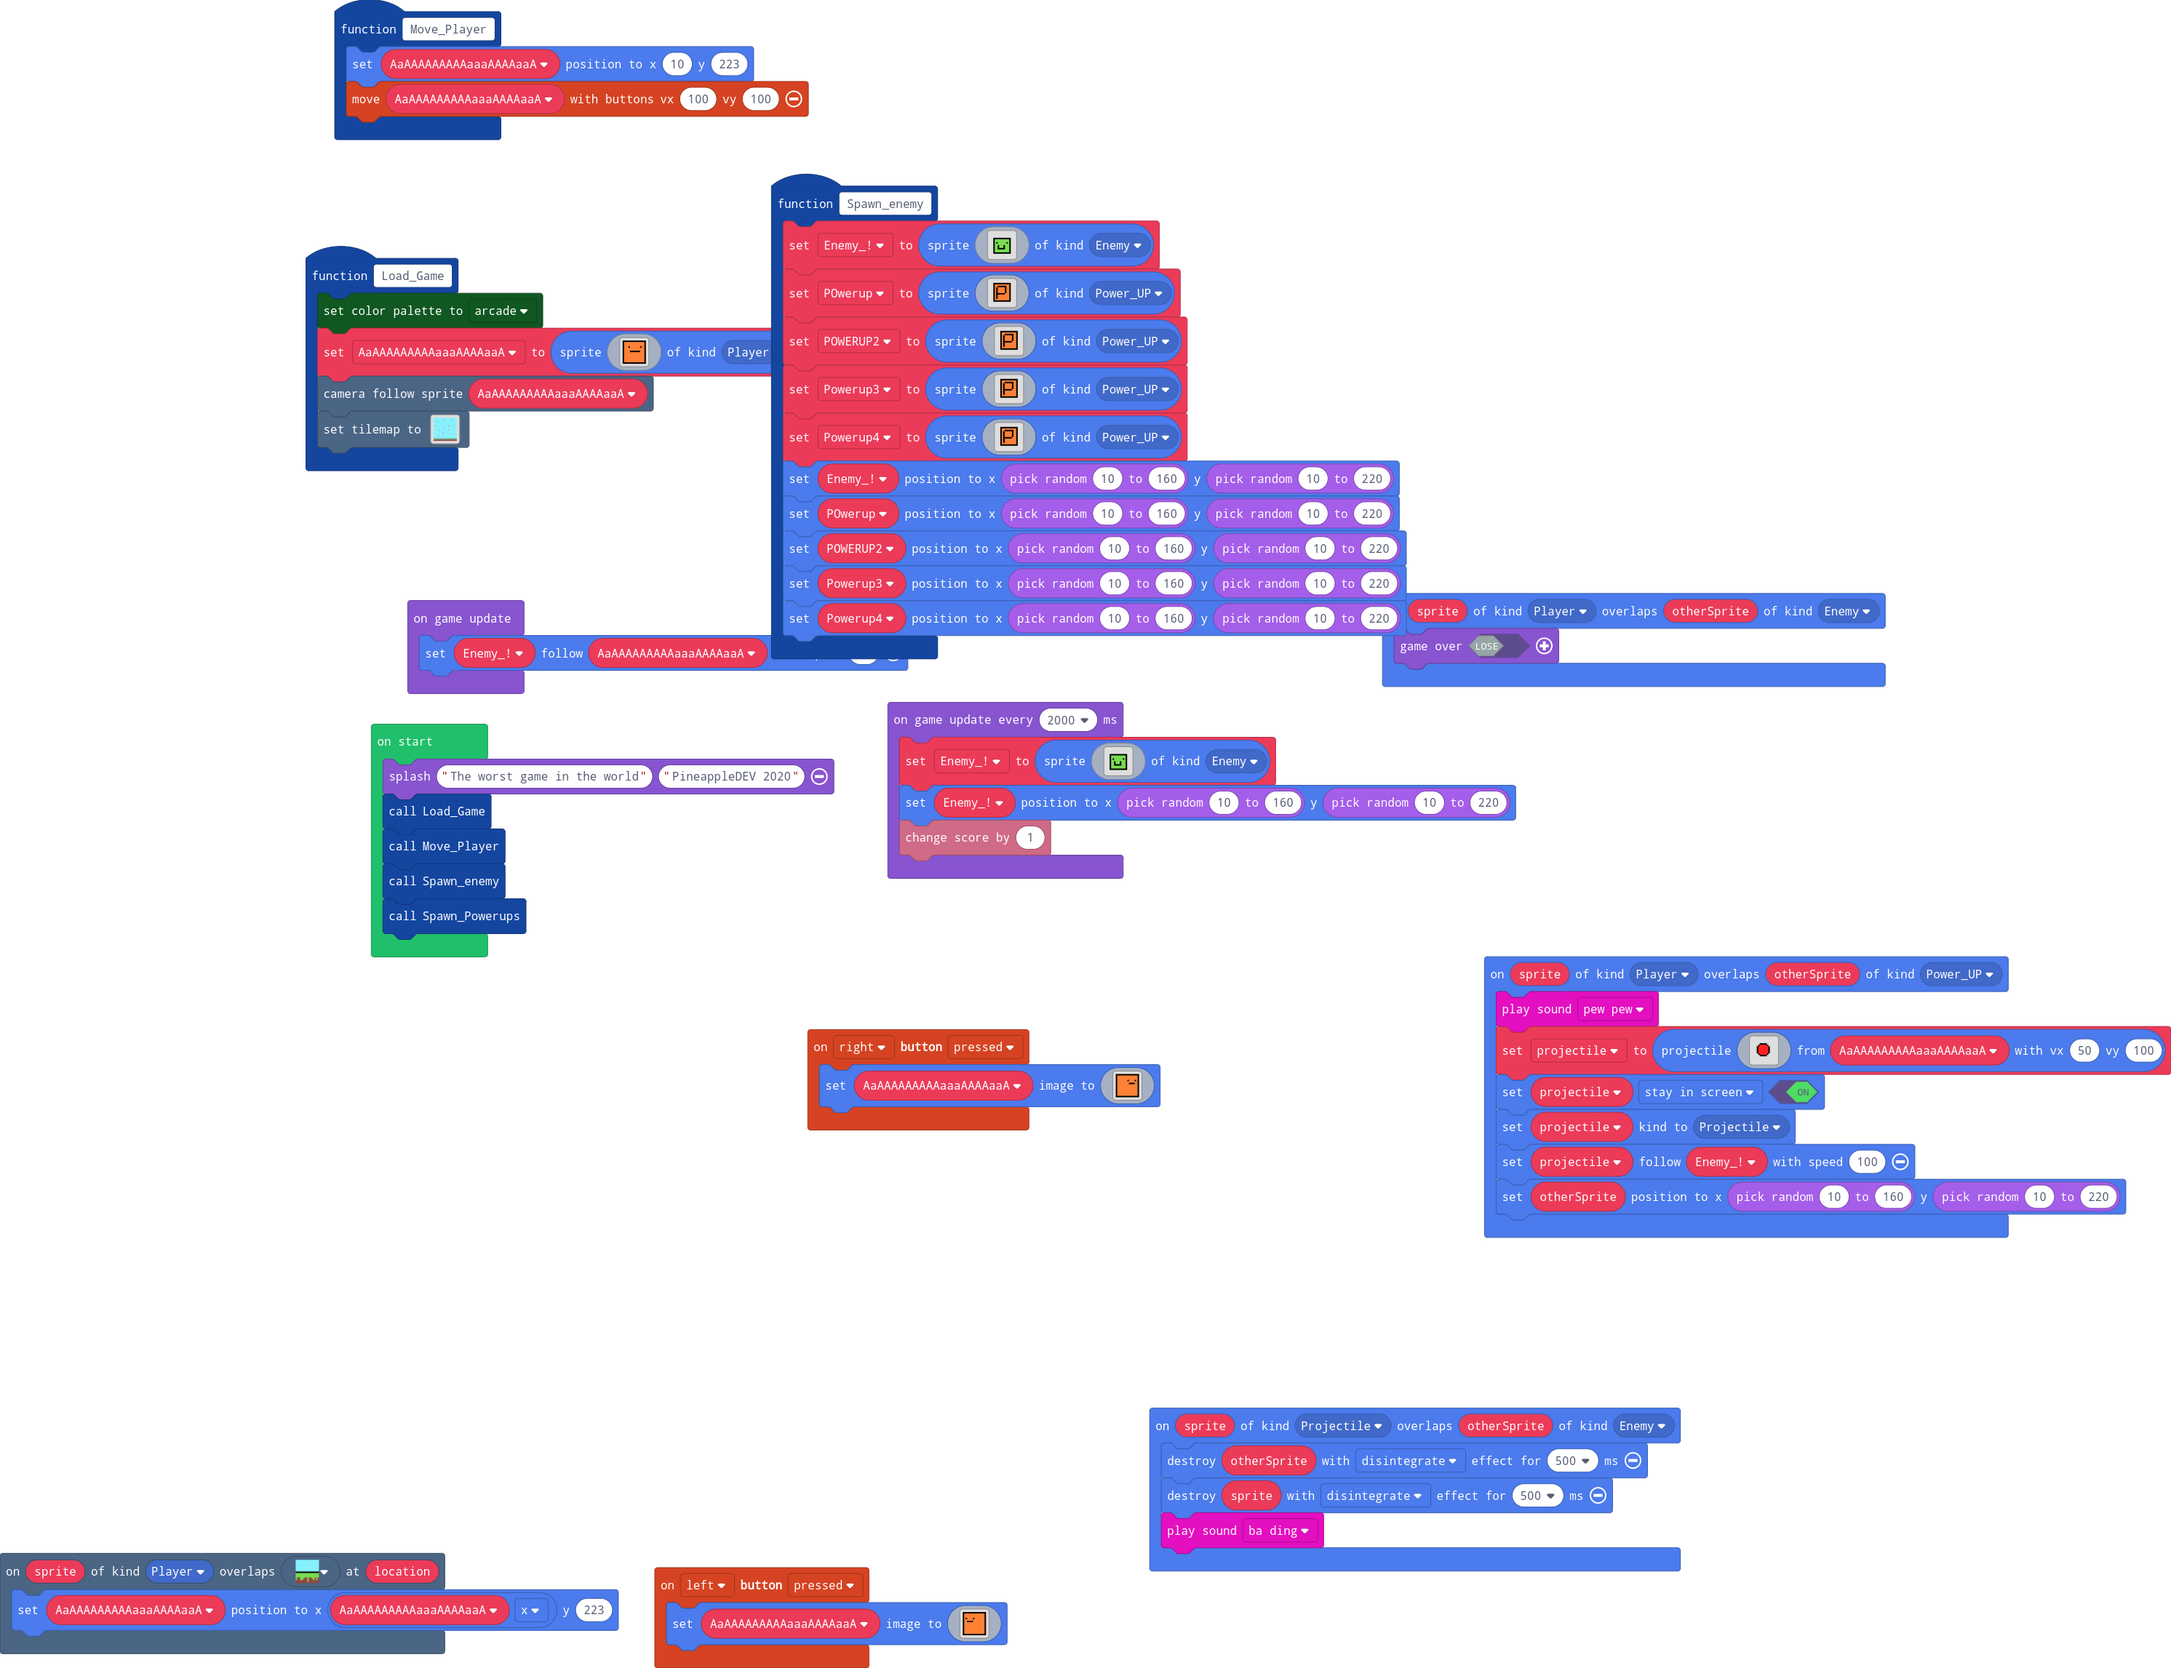
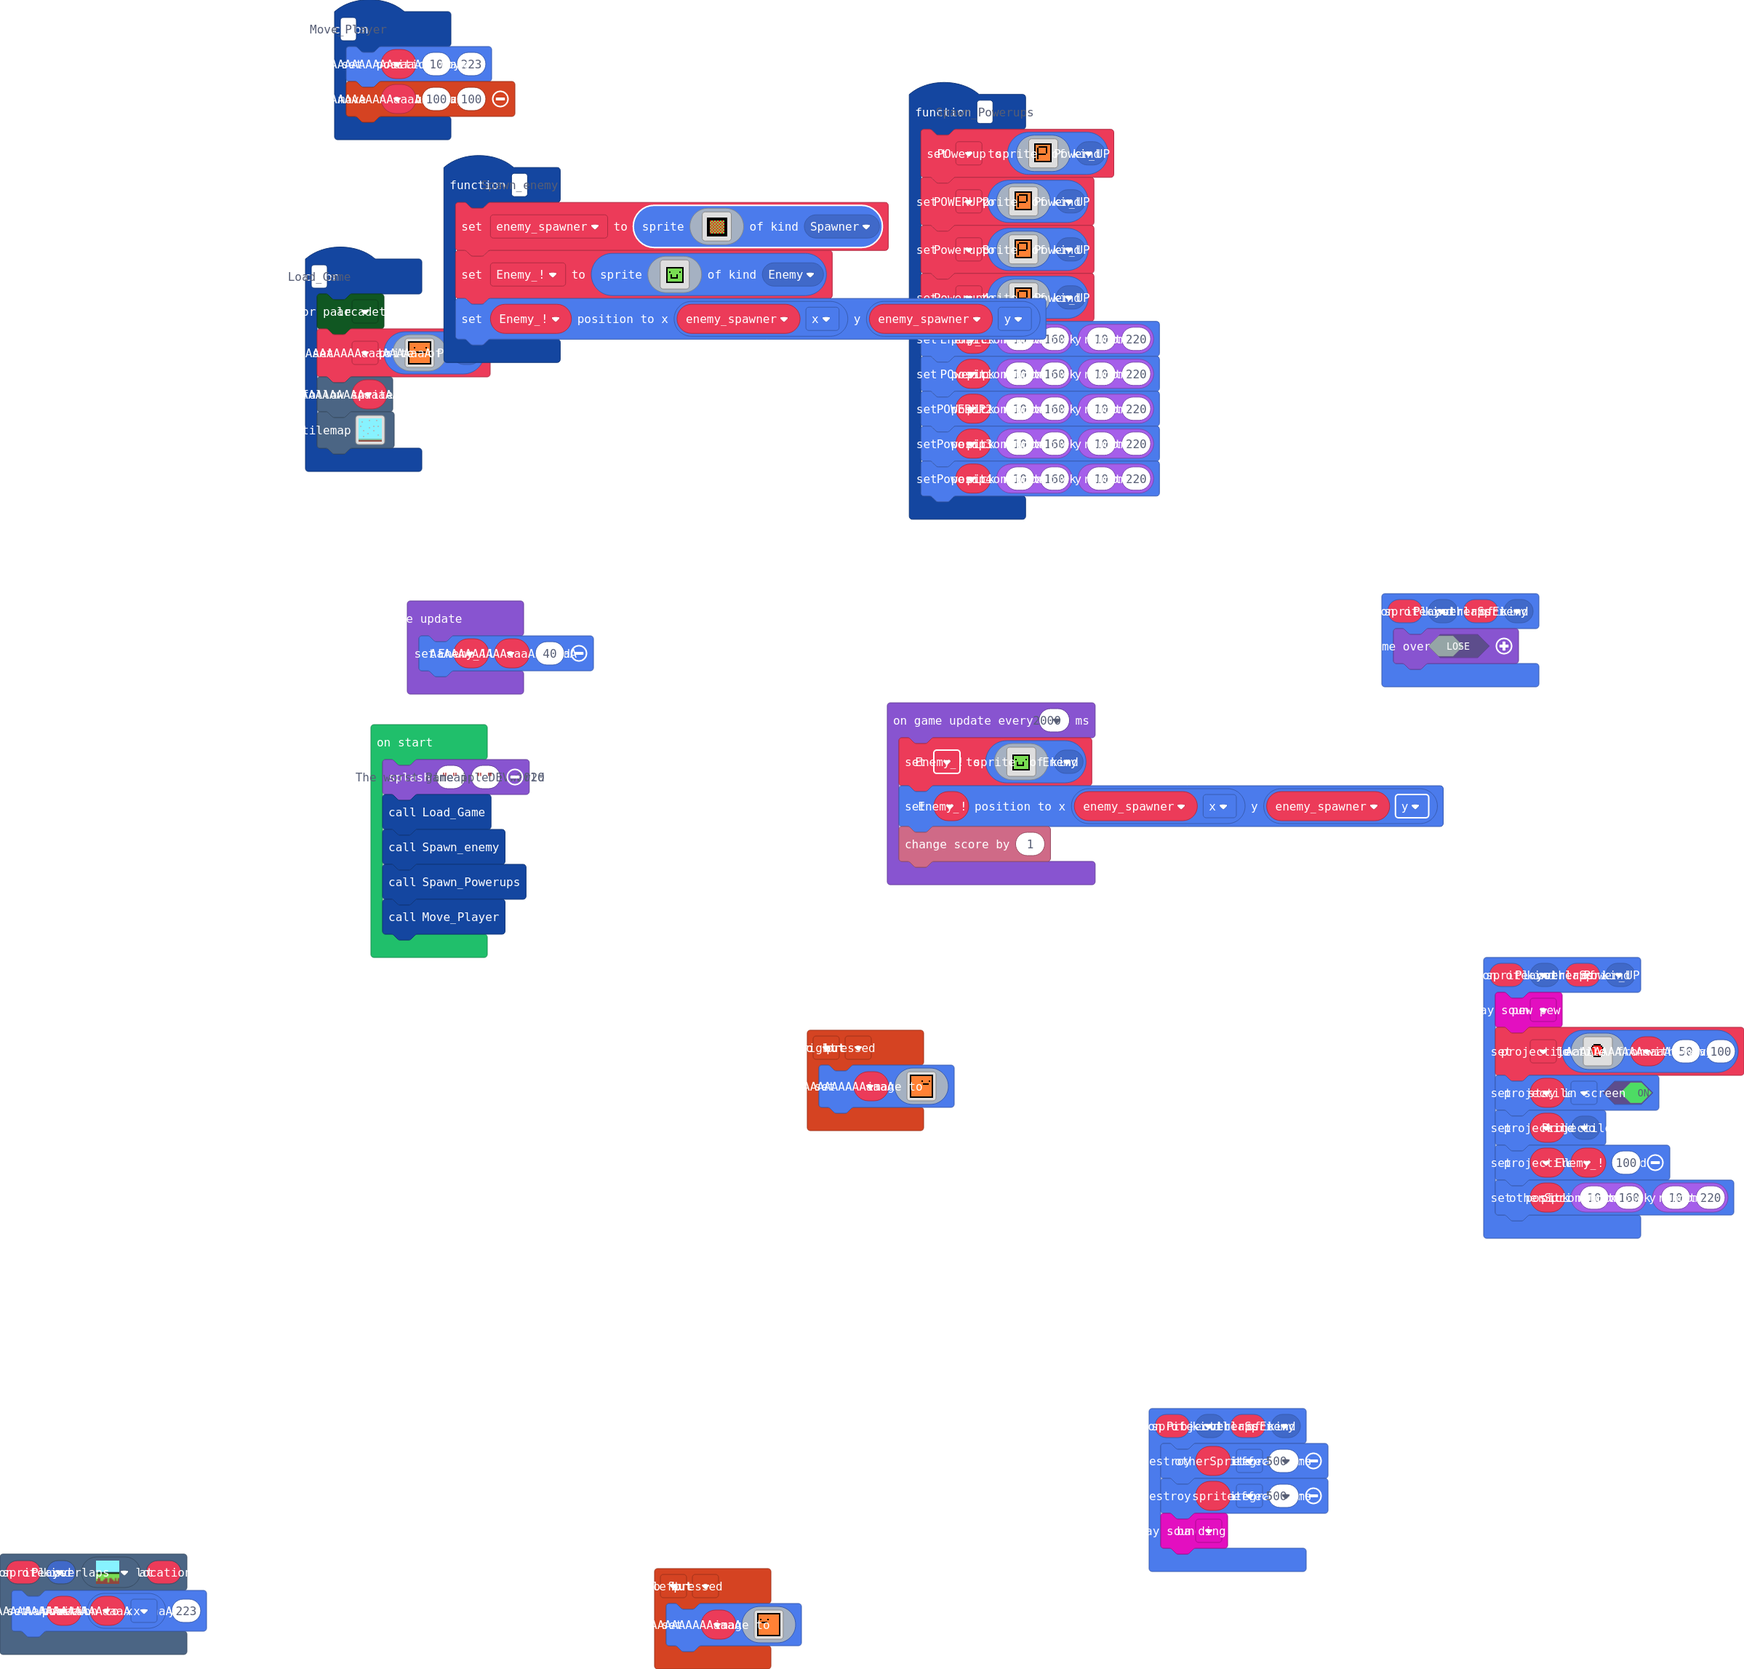
New! Enemy spawner (stasionary enemy spawner)

diff --git a/main.ts b/main.ts
@@ -1,5 +1,6 @@
 namespace SpriteKind {
     export const Power_UP = SpriteKind.create()
+    export const Spawner = SpriteKind.create()
 }
 namespace myTiles {
     //% blockIdentity=images._tile
@@ -98,11 +99,49 @@ f f d d d d d d d d d d d d f f
 9 9 9 9 9 9 9 9 9 9 9 9 9 9 9 9 
 `
 }
+controller.left.onEvent(ControllerButtonEvent.Pressed, function () {
+    AaAAAAAAAAAaaaAAAAaaA.setImage(img`
+f f f f f f f f f f f f f f f f 
+f 4 4 4 4 4 4 4 4 4 4 4 4 4 4 f 
+f 4 4 4 4 4 4 4 4 4 4 4 4 4 4 f 
+f 4 4 4 4 4 4 4 4 4 4 4 4 4 4 f 
+f 4 f 4 4 4 4 f 4 4 4 4 4 4 4 f 
+f 4 4 4 4 4 4 4 4 4 4 4 4 4 4 f 
+f 4 4 f f f f 4 4 4 4 4 4 4 4 f 
+f 4 4 4 4 4 4 4 4 4 4 4 4 4 4 f 
+f 4 4 4 4 4 4 4 4 4 4 4 4 4 4 f 
+f 4 4 4 4 4 4 4 4 4 4 4 4 4 4 f 
+f 4 4 4 4 4 4 4 4 4 4 4 4 4 4 f 
+f 4 4 4 4 4 4 4 4 4 4 4 4 4 4 f 
+f 4 4 4 4 4 4 4 4 4 4 4 4 4 4 f 
+f 4 4 4 4 4 4 4 4 4 4 4 4 4 4 f 
+f 4 4 4 4 4 4 4 4 4 4 4 4 4 4 f 
+f f f f f f f f f f f f f f f f 
+`)
+})
 function Move_Player () {
     AaAAAAAAAAAaaaAAAAaaA.setPosition(10, 223)
     controller.moveSprite(AaAAAAAAAAAaaaAAAAaaA, 100, 100)
 }
 function Spawn_enemy () {
+    enemy_spawner = sprites.create(img`
+. . . . . . . . . . . . . . . . 
+. . . . . . . . . . . . . . . . 
+. f f f f f f f f f f f f f f . 
+. f f f f f f f f f f f f f f . 
+. f f 2 7 2 7 2 7 2 7 2 7 f f . 
+. f f 7 2 7 2 7 2 7 2 7 2 f f . 
+. f f 2 7 2 7 2 7 2 7 2 7 f f . 
+. f f 7 2 7 2 7 2 7 2 7 2 f f . 
+. f f 2 7 2 7 2 7 2 7 2 7 f f . 
+. f f 7 2 7 2 7 2 7 2 7 2 f f . 
+. f f 2 7 2 7 2 7 2 7 2 7 f f . 
+. f f 7 2 7 2 7 2 7 2 7 2 f f . 
+. f f 2 7 2 7 2 7 2 7 2 7 f f . 
+. f f f f f f f f f f f f f f . 
+. f f f f f f f f f f f f f f . 
+. . . . . . . . . . . . . . . . 
+`, SpriteKind.Spawner)
     Enemy_ = sprites.create(img`
 . . . . . . . . . . . . . . . . 
 . . . . . . . . . . . . . . . . 
@@ -121,6 +160,112 @@ function Spawn_enemy () {
 . . . . . . . . . . . . . . . . 
 . . . . . . . . . . . . . . . . 
 `, SpriteKind.Enemy)
+    Enemy_.setPosition(enemy_spawner.x, enemy_spawner.y)
+}
+sprites.onOverlap(SpriteKind.Projectile, SpriteKind.Enemy, function (sprite, otherSprite) {
+    otherSprite.destroy(effects.disintegrate, 500)
+    sprite.destroy(effects.disintegrate, 500)
+    music.baDing.play()
+})
+sprites.onOverlap(SpriteKind.Player, SpriteKind.Enemy, function (sprite, otherSprite) {
+    game.over(false)
+})
+controller.right.onEvent(ControllerButtonEvent.Pressed, function () {
+    AaAAAAAAAAAaaaAAAAaaA.setImage(img`
+f f f f f f f f f f f f f f f f 
+f 4 4 4 4 4 4 4 4 4 4 4 4 4 4 f 
+f 4 4 4 4 4 4 4 4 4 4 4 4 4 4 f 
+f 4 4 4 4 4 4 4 4 4 4 4 4 4 4 f 
+f 4 4 4 4 4 4 4 f 4 4 4 4 f 4 f 
+f 4 4 4 4 4 4 4 4 4 4 4 4 4 4 f 
+f 4 4 4 4 4 4 4 4 f f f f 4 4 f 
+f 4 4 4 4 4 4 4 4 4 4 4 4 4 4 f 
+f 4 4 4 4 4 4 4 4 4 4 4 4 4 4 f 
+f 4 4 4 4 4 4 4 4 4 4 4 4 4 4 f 
+f 4 4 4 4 4 4 4 4 4 4 4 4 4 4 f 
+f 4 4 4 4 4 4 4 4 4 4 4 4 4 4 f 
+f 4 4 4 4 4 4 4 4 4 4 4 4 4 4 f 
+f 4 4 4 4 4 4 4 4 4 4 4 4 4 4 f 
+f 4 4 4 4 4 4 4 4 4 4 4 4 4 4 f 
+f f f f f f f f f f f f f f f f 
+`)
+})
+sprites.onOverlap(SpriteKind.Player, SpriteKind.Power_UP, function (sprite, otherSprite) {
+    music.pewPew.play()
+    projectile = sprites.createProjectileFromSprite(img`
+. . . . . . . . . . . . . . . . 
+. . . . . . . . . . . . . . . . 
+. . . . . . . . . . . . . . . . 
+. . . . . f f f f f . . . . . . 
+. . . . f 2 2 2 2 2 f . . . . . 
+. . . f 2 2 2 2 2 2 2 f . . . . 
+. . . f 2 2 2 2 2 2 2 f . . . . 
+. . . f 2 2 2 2 2 2 2 f . . . . 
+. . . f 2 2 2 2 2 2 2 f . . . . 
+. . . f 2 2 2 2 2 2 2 f . . . . 
+. . . . f 2 2 2 2 2 f . . . . . 
+. . . . . f f f f f . . . . . . 
+. . . . . . . . . . . . . . . . 
+. . . . . . . . . . . . . . . . 
+. . . . . . . . . . . . . . . . 
+. . . . . . . . . . . . . . . . 
+`, AaAAAAAAAAAaaaAAAAaaA, 50, 100)
+    projectile.setFlag(SpriteFlag.StayInScreen, true)
+    projectile.setKind(SpriteKind.Projectile)
+    projectile.follow(Enemy_, 100)
+    otherSprite.setPosition(Math.randomRange(10, 160), Math.randomRange(10, 220))
+})
+function Load_Game () {
+    color.setPalette(
+    color.Arcade
+    )
+    AaAAAAAAAAAaaaAAAAaaA = sprites.create(img`
+f f f f f f f f f f f f f f f f 
+f 4 4 4 4 4 4 4 4 4 4 4 4 4 4 f 
+f 4 4 4 4 4 4 4 4 4 4 4 4 4 4 f 
+f 4 4 4 4 4 4 4 4 4 4 4 4 4 4 f 
+f 4 4 4 f 4 4 4 4 4 4 4 f 4 4 f 
+f 4 4 4 4 4 4 4 4 4 4 4 4 4 4 f 
+f 4 4 4 4 4 4 4 4 4 4 4 4 4 4 f 
+f 4 4 4 4 f f f f f f f 4 4 4 f 
+f 4 4 4 4 4 4 4 4 4 4 4 4 4 4 f 
+f 4 4 4 4 4 4 4 4 4 4 4 4 4 4 f 
+f 4 4 4 4 4 4 4 4 4 4 4 4 4 4 f 
+f 4 4 4 4 4 4 4 4 4 4 4 4 4 4 f 
+f 4 4 4 4 4 4 4 4 4 4 4 4 4 4 f 
+f 4 4 4 4 4 4 4 4 4 4 4 4 4 4 f 
+f 4 4 4 4 4 4 4 4 4 4 4 4 4 4 f 
+f f f f f f f f f f f f f f f f 
+`, SpriteKind.Player)
+    scene.cameraFollowSprite(AaAAAAAAAAAaaaAAAAaaA)
+    tiles.setTilemap(tiles.createTilemap(
+            hex`1000100001010101010101010101010101010101010101010101010401010101040101010101040101010101010101010101010101010101010101010101010101010101010101010101010101010101010101010104010101010101010104010104010101010101010101040101010101010101010101010101010101010101010101010101010401010101010104010101010101010101010101010101010101010101010101010101040101010101010101010101010101010101010101010104010101010104010101010101010101010101010101010101010101010101010101010202020202020202020202020202020203030303030303030303030303030303`,
+            img`
+. . . . . . . . . . . . . . . . 
+. . . . . . . . . . . . . . . . 
+. . . . . . . . . . . . . . . . 
+. . . . . . . . . . . . . . . . 
+. . . . . . . . . . . . . . . . 
+. . . . . . . . . . . . . . . . 
+. . . . . . . . . . . . . . . . 
+. . . . . . . . . . . . . . . . 
+. . . . . . . . . . . . . . . . 
+. . . . . . . . . . . . . . . . 
+. . . . . . . . . . . . . . . . 
+. . . . . . . . . . . . . . . . 
+. . . . . . . . . . . . . . . . 
+. . . . . . . . . . . . . . . . 
+. . . . . . . . . . . . . . . . 
+. . . . . . . . . . . . . . . . 
+`,
+            [myTiles.tile0,myTiles.tile1,myTiles.tile2,myTiles.tile3,myTiles.tile4],
+            TileScale.Sixteen
+        ))
+}
+scene.onOverlapTile(SpriteKind.Player, myTiles.tile2, function (sprite, location) {
+    AaAAAAAAAAAaaaAAAAaaA.setPosition(AaAAAAAAAAAaaaAAAAaaA.x, 223)
+})
+function Spawn_Powerups () {
     POwerup = sprites.create(img`
 . . . . . . . . . . . . . . . . 
 . . f f f f f f f f f f f f . . 
@@ -199,144 +344,19 @@ function Spawn_enemy () {
     Powerup3.setPosition(Math.randomRange(10, 160), Math.randomRange(10, 220))
     Powerup4.setPosition(Math.randomRange(10, 160), Math.randomRange(10, 220))
 }
-function Load_Game () {
-    color.setPalette(
-    color.Arcade
-    )
-    AaAAAAAAAAAaaaAAAAaaA = sprites.create(img`
-f f f f f f f f f f f f f f f f 
-f 4 4 4 4 4 4 4 4 4 4 4 4 4 4 f 
-f 4 4 4 4 4 4 4 4 4 4 4 4 4 4 f 
-f 4 4 4 4 4 4 4 4 4 4 4 4 4 4 f 
-f 4 4 4 f 4 4 4 4 4 4 4 f 4 4 f 
-f 4 4 4 4 4 4 4 4 4 4 4 4 4 4 f 
-f 4 4 4 4 4 4 4 4 4 4 4 4 4 4 f 
-f 4 4 4 4 f f f f f f f 4 4 4 f 
-f 4 4 4 4 4 4 4 4 4 4 4 4 4 4 f 
-f 4 4 4 4 4 4 4 4 4 4 4 4 4 4 f 
-f 4 4 4 4 4 4 4 4 4 4 4 4 4 4 f 
-f 4 4 4 4 4 4 4 4 4 4 4 4 4 4 f 
-f 4 4 4 4 4 4 4 4 4 4 4 4 4 4 f 
-f 4 4 4 4 4 4 4 4 4 4 4 4 4 4 f 
-f 4 4 4 4 4 4 4 4 4 4 4 4 4 4 f 
-f f f f f f f f f f f f f f f f 
-`, SpriteKind.Player)
-    scene.cameraFollowSprite(AaAAAAAAAAAaaaAAAAaaA)
-    tiles.setTilemap(tiles.createTilemap(
-            hex`1000100001010101010101010101010101010101010101010101010401010101040101010101040101010101010101010101010101010101010101010101010101010101010101010101010101010101010101010104010101010101010104010104010101010101010101040101010101010101010101010101010101010101010101010101010401010101010104010101010101010101010101010101010101010101010101010101040101010101010101010101010101010101010101010104010101010104010101010101010101010101010101010101010101010101010101010202020202020202020202020202020203030303030303030303030303030303`,
-            img`
-. . . . . . . . . . . . . . . . 
-. . . . . . . . . . . . . . . . 
-. . . . . . . . . . . . . . . . 
-. . . . . . . . . . . . . . . . 
-. . . . . . . . . . . . . . . . 
-. . . . . . . . . . . . . . . . 
-. . . . . . . . . . . . . . . . 
-. . . . . . . . . . . . . . . . 
-. . . . . . . . . . . . . . . . 
-. . . . . . . . . . . . . . . . 
-. . . . . . . . . . . . . . . . 
-. . . . . . . . . . . . . . . . 
-. . . . . . . . . . . . . . . . 
-. . . . . . . . . . . . . . . . 
-. . . . . . . . . . . . . . . . 
-. . . . . . . . . . . . . . . . 
-`,
-            [myTiles.tile0,myTiles.tile1,myTiles.tile2,myTiles.tile3,myTiles.tile4],
-            TileScale.Sixteen
-        ))
-}
-function Spawn_Powerups () {
-	
-}
-controller.left.onEvent(ControllerButtonEvent.Pressed, function () {
-    AaAAAAAAAAAaaaAAAAaaA.setImage(img`
-f f f f f f f f f f f f f f f f 
-f 4 4 4 4 4 4 4 4 4 4 4 4 4 4 f 
-f 4 4 4 4 4 4 4 4 4 4 4 4 4 4 f 
-f 4 4 4 4 4 4 4 4 4 4 4 4 4 4 f 
-f 4 f 4 4 4 4 f 4 4 4 4 4 4 4 f 
-f 4 4 4 4 4 4 4 4 4 4 4 4 4 4 f 
-f 4 4 f f f f 4 4 4 4 4 4 4 4 f 
-f 4 4 4 4 4 4 4 4 4 4 4 4 4 4 f 
-f 4 4 4 4 4 4 4 4 4 4 4 4 4 4 f 
-f 4 4 4 4 4 4 4 4 4 4 4 4 4 4 f 
-f 4 4 4 4 4 4 4 4 4 4 4 4 4 4 f 
-f 4 4 4 4 4 4 4 4 4 4 4 4 4 4 f 
-f 4 4 4 4 4 4 4 4 4 4 4 4 4 4 f 
-f 4 4 4 4 4 4 4 4 4 4 4 4 4 4 f 
-f 4 4 4 4 4 4 4 4 4 4 4 4 4 4 f 
-f f f f f f f f f f f f f f f f 
-`)
-})
-sprites.onOverlap(SpriteKind.Projectile, SpriteKind.Enemy, function (sprite, otherSprite) {
-    otherSprite.destroy(effects.disintegrate, 500)
-    sprite.destroy(effects.disintegrate, 500)
-    music.baDing.play()
-})
-sprites.onOverlap(SpriteKind.Player, SpriteKind.Enemy, function (sprite, otherSprite) {
-    game.over(false)
-})
-controller.right.onEvent(ControllerButtonEvent.Pressed, function () {
-    AaAAAAAAAAAaaaAAAAaaA.setImage(img`
-f f f f f f f f f f f f f f f f 
-f 4 4 4 4 4 4 4 4 4 4 4 4 4 4 f 
-f 4 4 4 4 4 4 4 4 4 4 4 4 4 4 f 
-f 4 4 4 4 4 4 4 4 4 4 4 4 4 4 f 
-f 4 4 4 4 4 4 4 f 4 4 4 4 f 4 f 
-f 4 4 4 4 4 4 4 4 4 4 4 4 4 4 f 
-f 4 4 4 4 4 4 4 4 f f f f 4 4 f 
-f 4 4 4 4 4 4 4 4 4 4 4 4 4 4 f 
-f 4 4 4 4 4 4 4 4 4 4 4 4 4 4 f 
-f 4 4 4 4 4 4 4 4 4 4 4 4 4 4 f 
-f 4 4 4 4 4 4 4 4 4 4 4 4 4 4 f 
-f 4 4 4 4 4 4 4 4 4 4 4 4 4 4 f 
-f 4 4 4 4 4 4 4 4 4 4 4 4 4 4 f 
-f 4 4 4 4 4 4 4 4 4 4 4 4 4 4 f 
-f 4 4 4 4 4 4 4 4 4 4 4 4 4 4 f 
-f f f f f f f f f f f f f f f f 
-`)
-})
-sprites.onOverlap(SpriteKind.Player, SpriteKind.Power_UP, function (sprite, otherSprite) {
-    music.pewPew.play()
-    projectile = sprites.createProjectileFromSprite(img`
-. . . . . . . . . . . . . . . . 
-. . . . . . . . . . . . . . . . 
-. . . . . . . . . . . . . . . . 
-. . . . . f f f f f . . . . . . 
-. . . . f 2 2 2 2 2 f . . . . . 
-. . . f 2 2 2 2 2 2 2 f . . . . 
-. . . f 2 2 2 2 2 2 2 f . . . . 
-. . . f 2 2 2 2 2 2 2 f . . . . 
-. . . f 2 2 2 2 2 2 2 f . . . . 
-. . . f 2 2 2 2 2 2 2 f . . . . 
-. . . . f 2 2 2 2 2 f . . . . . 
-. . . . . f f f f f . . . . . . 
-. . . . . . . . . . . . . . . . 
-. . . . . . . . . . . . . . . . 
-. . . . . . . . . . . . . . . . 
-. . . . . . . . . . . . . . . . 
-`, AaAAAAAAAAAaaaAAAAaaA, 50, 100)
-    projectile.setFlag(SpriteFlag.StayInScreen, true)
-    projectile.setKind(SpriteKind.Projectile)
-    projectile.follow(Enemy_, 100)
-    otherSprite.setPosition(Math.randomRange(10, 160), Math.randomRange(10, 220))
-})
-scene.onOverlapTile(SpriteKind.Player, myTiles.tile2, function (sprite, location) {
-    AaAAAAAAAAAaaaAAAAaaA.setPosition(AaAAAAAAAAAaaaAAAAaaA.x, 223)
-})
-let projectile: Sprite = null
 let Powerup4: Sprite = null
 let Powerup3: Sprite = null
 let POWERUP2: Sprite = null
 let POwerup: Sprite = null
+let projectile: Sprite = null
 let Enemy_: Sprite = null
+let enemy_spawner: Sprite = null
 let AaAAAAAAAAAaaaAAAAaaA: Sprite = null
 game.splash("The worst game in the world", "PineappleDEV 2020")
 Load_Game()
-Move_Player()
 Spawn_enemy()
 Spawn_Powerups()
+Move_Player()
 game.onUpdateInterval(2000, function () {
     Enemy_ = sprites.create(img`
 . . . . . . . . . . . . . . . . 
@@ -356,7 +376,7 @@ game.onUpdateInterval(2000, function () {
 . . . . . . . . . . . . . . . . 
 . . . . . . . . . . . . . . . . 
 `, SpriteKind.Enemy)
-    Enemy_.setPosition(Math.randomRange(10, 160), Math.randomRange(10, 220))
+    Enemy_.setPosition(enemy_spawner.x, enemy_spawner.y)
     info.changeScoreBy(1)
 })
 game.onUpdate(function () {
